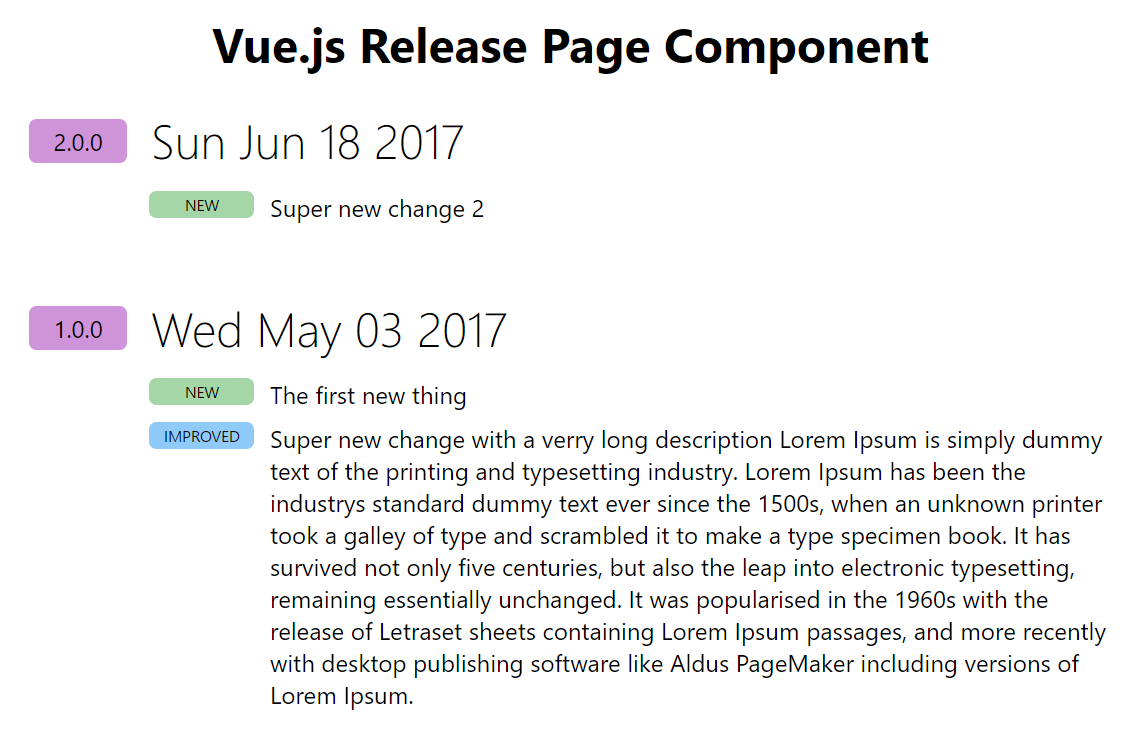
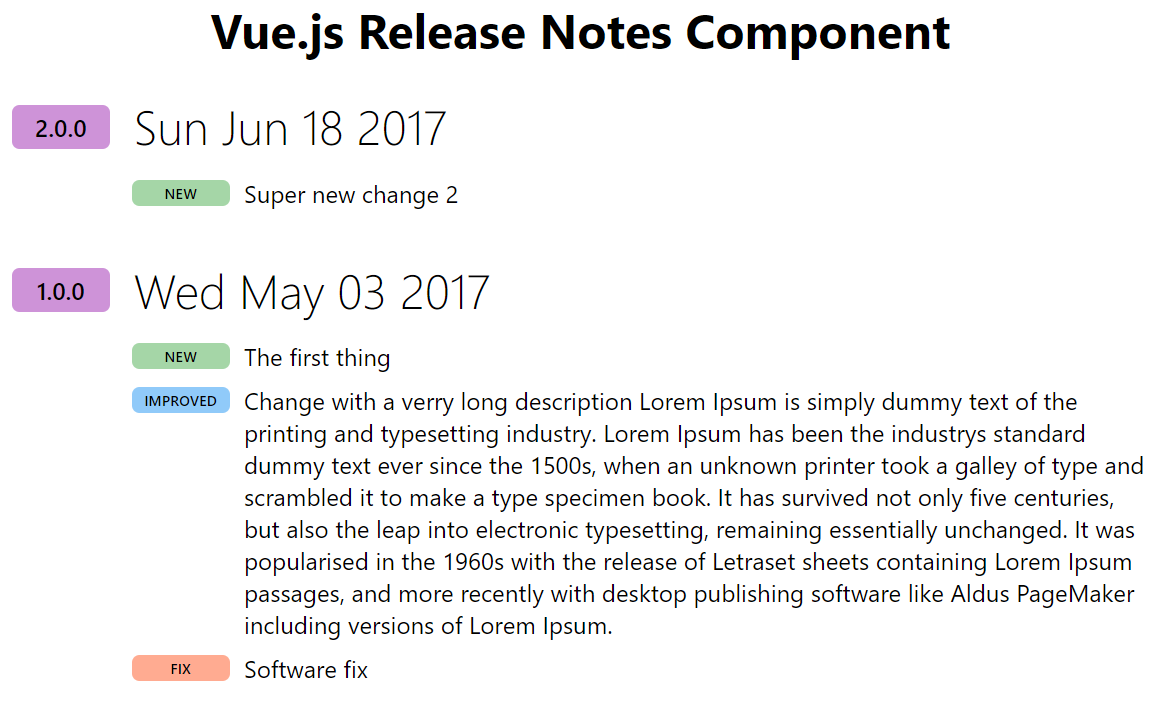
Renamed to Vue Release Notes

Changed region(s): [[0.0, 0.359, 1.0, 0.9872], [0.1849, 0.0, 0.8319, 0.1197], [0.0, 0.1496, 0.4313, 0.2991]]

diff --git a/src/demo/release-notes.js b/src/demo/release-notes.js
@@ -16,12 +16,12 @@ export const releases = [
     changes: [
       {
         type: 'new',
-        description: 'The first new thing',
+        description: 'The first thing',
         link: 'https://github.com/cstlaurent/vue-release-page/releases'
       },
       {
         type: 'improved',
-        description: 'Super new change with a verry long description Lorem Ipsum is simply dummy text of the printing and typesetting industry. Lorem Ipsum has been the industrys standard dummy text ever since the 1500s, when an unknown printer took a galley of type and scrambled it to make a type specimen book. It has survived not only five centuries, but also the leap into electronic typesetting, remaining essentially unchanged. It was popularised in the 1960s with the release of Letraset sheets containing Lorem Ipsum passages, and more recently with desktop publishing software like Aldus PageMaker including versions of Lorem Ipsum.',
+        description: 'Change with a verry long description Lorem Ipsum is simply dummy text of the printing and typesetting industry. Lorem Ipsum has been the industrys standard dummy text ever since the 1500s, when an unknown printer took a galley of type and scrambled it to make a type specimen book. It has survived not only five centuries, but also the leap into electronic typesetting, remaining essentially unchanged. It was popularised in the 1960s with the release of Letraset sheets containing Lorem Ipsum passages, and more recently with desktop publishing software like Aldus PageMaker including versions of Lorem Ipsum.',
         link: 'https://github.com/cstlaurent/vue-release-page/releases'
       },
       {

diff --git a/src/component/component.scss b/src/component/component.scss
@@ -1,6 +1,6 @@
 $break-small: 768px;
 
-._release-page {
+._release-notes {
   .release {
     margin: 1em 0 2em 0;
     .release-header {
@@ -57,6 +57,9 @@ $break-small: 768px;
           }
           &.blue {
             background-color: #90caf9;
+          }
+          &.orange {
+            background-color: #ffab91;
           }
         }
         .change-description {

diff --git a/src/component/component.js b/src/component/component.js
@@ -1,5 +1,19 @@
 export default {
   props: {
     releases: Array
+  },
+  methods: {
+    tagColor (changeType) {
+      if (colorMap.has(changeType)) {
+        return colorMap.get(changeType)
+      } else {
+        return 'blue'
+      }
+    }
   }
 }
+
+const colorMap = new Map([
+  ['new', 'green'],
+  ['fix', 'orange']
+])

diff --git a/README.md b/README.md
@@ -1,8 +1,6 @@
-# vue-release-page
+# Vue.js Release Notes Component
 
-> A Vue.js Release Page Component
-
-![Component Screenshot](https://raw.githubusercontent.com/cstlaurent/vue-release-page/master/docs/assets/component-screenshot.png)
+![Component Screenshot](https://raw.githubusercontent.com/cstlaurent/vue-release-notes/master/docs/assets/component-screenshot.png)
 
 # Usage
 
@@ -10,25 +8,25 @@
 
 ### Using yarn
 
-`yarn add vue-release-page`
+`yarn add vue-release-notes`
 
 ### Using npm
 
-`npm i --save vue-release-page`
+`npm i --save vue-release-notes`
 
 ### Import in project
 
 Import or require Vue and Vue Release Page in your code:
 ``` javascript
 import Vue from 'vue'
-import VueReleasePage from 'vue-release-page'
-import 'vue-release-page/dist/vue-release-page.css'
+import VueReleaseNotes from 'vue-release-notes'
+import 'vue-release-notes/dist/vue-release-notes.css'
 
 // OR
 
 var Vue = require('vue')
-var VueReleasePage = require('vue-release-page')
-require('vue-release-page/dist/vue-release-page.css')
+var VueReleaseNote = require('vue-release-notes')
+require('vue-release-notes/dist/vue-release-notes.css')
 ```
 
 ## License
